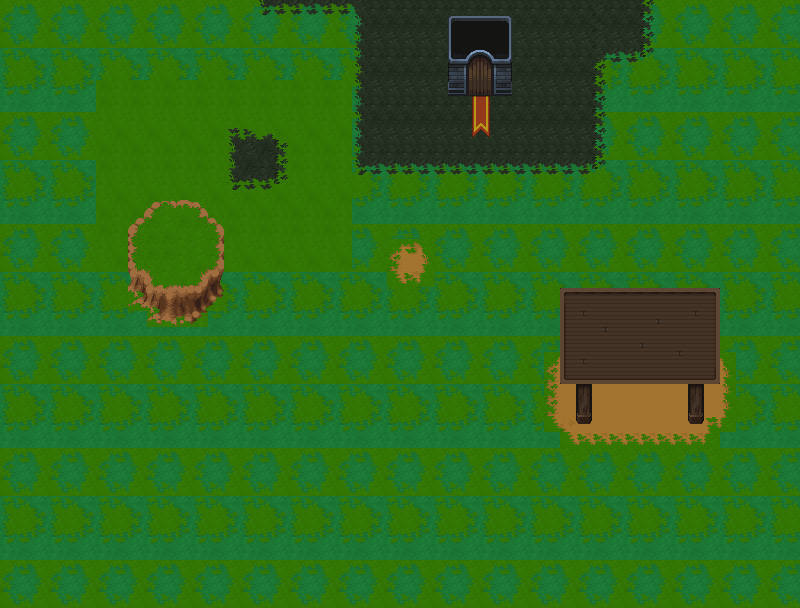
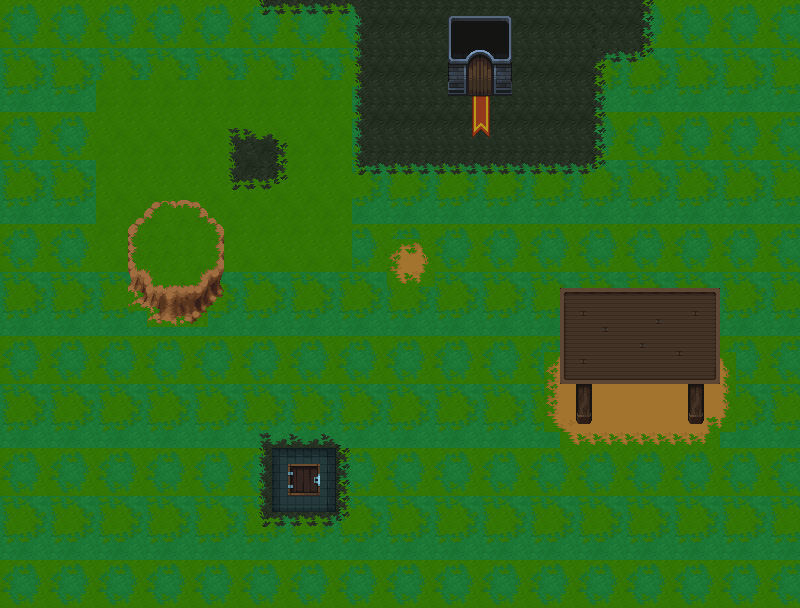
updated tilemap and conversation bar

Changed region(s): [[0.3125, 0.7188, 0.4375, 0.875]]

diff --git a/js/class.js b/js/class.js
@@ -6,6 +6,7 @@ const offsetCharacterY = 16;
 const mainCharacter = document.getElementById("mainCharacter");
 const gameWindow = document.getElementById("gameWindow");
 const heroSounds = document.getElementById("heroSounds");
+const mainCharacterSpeech = document.getElementById("mainCharacterSpeech");
 
 gameWindow.onclick = function(event){
     var rect = gameWindow.getBoundingClientRect();
@@ -14,18 +15,31 @@ gameWindow.onclick = function(event){
     mainCharacter.style.left = x - offsetCharacterX + 'px';
     mainCharacter.style.top = y - offsetCharacterY + 'px';
     //console.log(x);
+
     switch(event.target.id) {
         case "door1":
             //do something
-            console.log("knock knock");
+            showSpeechBubble("Lovely day for it!");
             heroSounds.play();
             break;
         case "platform":
             //do something else
-            console.log("nice and dry");
+            showSpeechBubble("What's all this, then? <br> Something new?");
+            break;
+        case "ghostpic":
+            showSpeechBubble("Top 'o the mornin'!<br>You know of a good haunt near here?")
             break;
         default:
-            console.log("hmm...");
+            hideSpeechBubble();
             break;
     }
+}
+
+function showSpeechBubble(dialogue) {
+    mainCharacterSpeech.innerHTML = dialogue;
+    mainCharacterSpeech.style.opacity = 1;
+}
+function hideSpeechBubble() {
+    mainCharacterSpeech.style.opacity = 0;
+    mainCharacterSpeech.innerHTML = " ... ";
 }

diff --git a/css/index.css b/css/index.css
@@ -47,6 +47,7 @@ body{
 #mainCharacter{
     top: 235px;
     left: 165px;
+    
 }
 
 #door1{
@@ -54,12 +55,67 @@ body{
     left: 465px;
     width: 31px;
     height: 47px;
-    background-color: aliceblue;
+    
 }
 #platform{
     top: 289px;
     left: 557px;
     width: 165px;
     height: 95px;
-    background-color: aliceblue;
+}
+
+.messageBox{
+    content: ' ';
+    padding: 10px;
+    border: 9px solid transparent;
+}
+
+.speech-bubble {
+	position: relative;
+	background: #ffffff;
+	border-radius: 60px;
+    color: #000;
+    padding: 5px 5px 5px 10px;
+    font-size: 12px;
+    left: 64px;
+    opacity: 0;
+    width: 400px;
+    transition: all 1s ease-in-out;
+}
+
+/*.speech-bubble:after {
+	content: '';
+	position: absolute;
+	bottom: 0;
+	left: 15px;
+	width: 0;
+	height: 0;
+	border: 6px solid transparent;
+	border-top-color: #ffffff;
+	border-bottom: 0;
+	border-left: 0;
+	margin-left: -3px;
+	margin-bottom: -6px;
+}*/
+
+#dialogueBar{
+    height: 64px;
+    bottom: 0;
+    position: absolute;
+}
+
+#mainCharacterPortrait{
+    position: absolute;
+}
+
+#dialogueBackground{
+    position: absolute;
+    height: 32px;
+    width: 800px;
+    background-color: #774444;
+    bottom: 0;
+}
+
+#ghostpic{
+    width: 40px;
 }

diff --git a/index.html b/index.html
@@ -8,6 +8,15 @@
         <h1 id="mainTitle">Mrs. Skeleton will remember that</h1>
         <div id="gameWindow">
             <!-- Foreground -->
+            <div id="dialogueBar" class="foreground">
+                <div id="dialogueBackground"></div>
+                <img src="images/redguyportrait.png" id="mainCharacterPortrait" class="foreground" alt="portrait">
+                <div class="speech-bubble" id="mainCharacterSpeech" class="foreground">...</div>
+                
+            </div>
+            <div id="ghost" class="foreground">
+                <img src="images/ghost.png" id="ghostpic" alt="The ghost is gone">
+            </div>
             <div id="door1" class = "foreground"></div>
             <div id="platform" class = "foreground"></div>
             <!-- Character -->
@@ -26,3 +35,4 @@
         <script src="js/class.js"></script>
     </body>
 </html>
+<!--persona-like bar for conversations at the bottom-->
